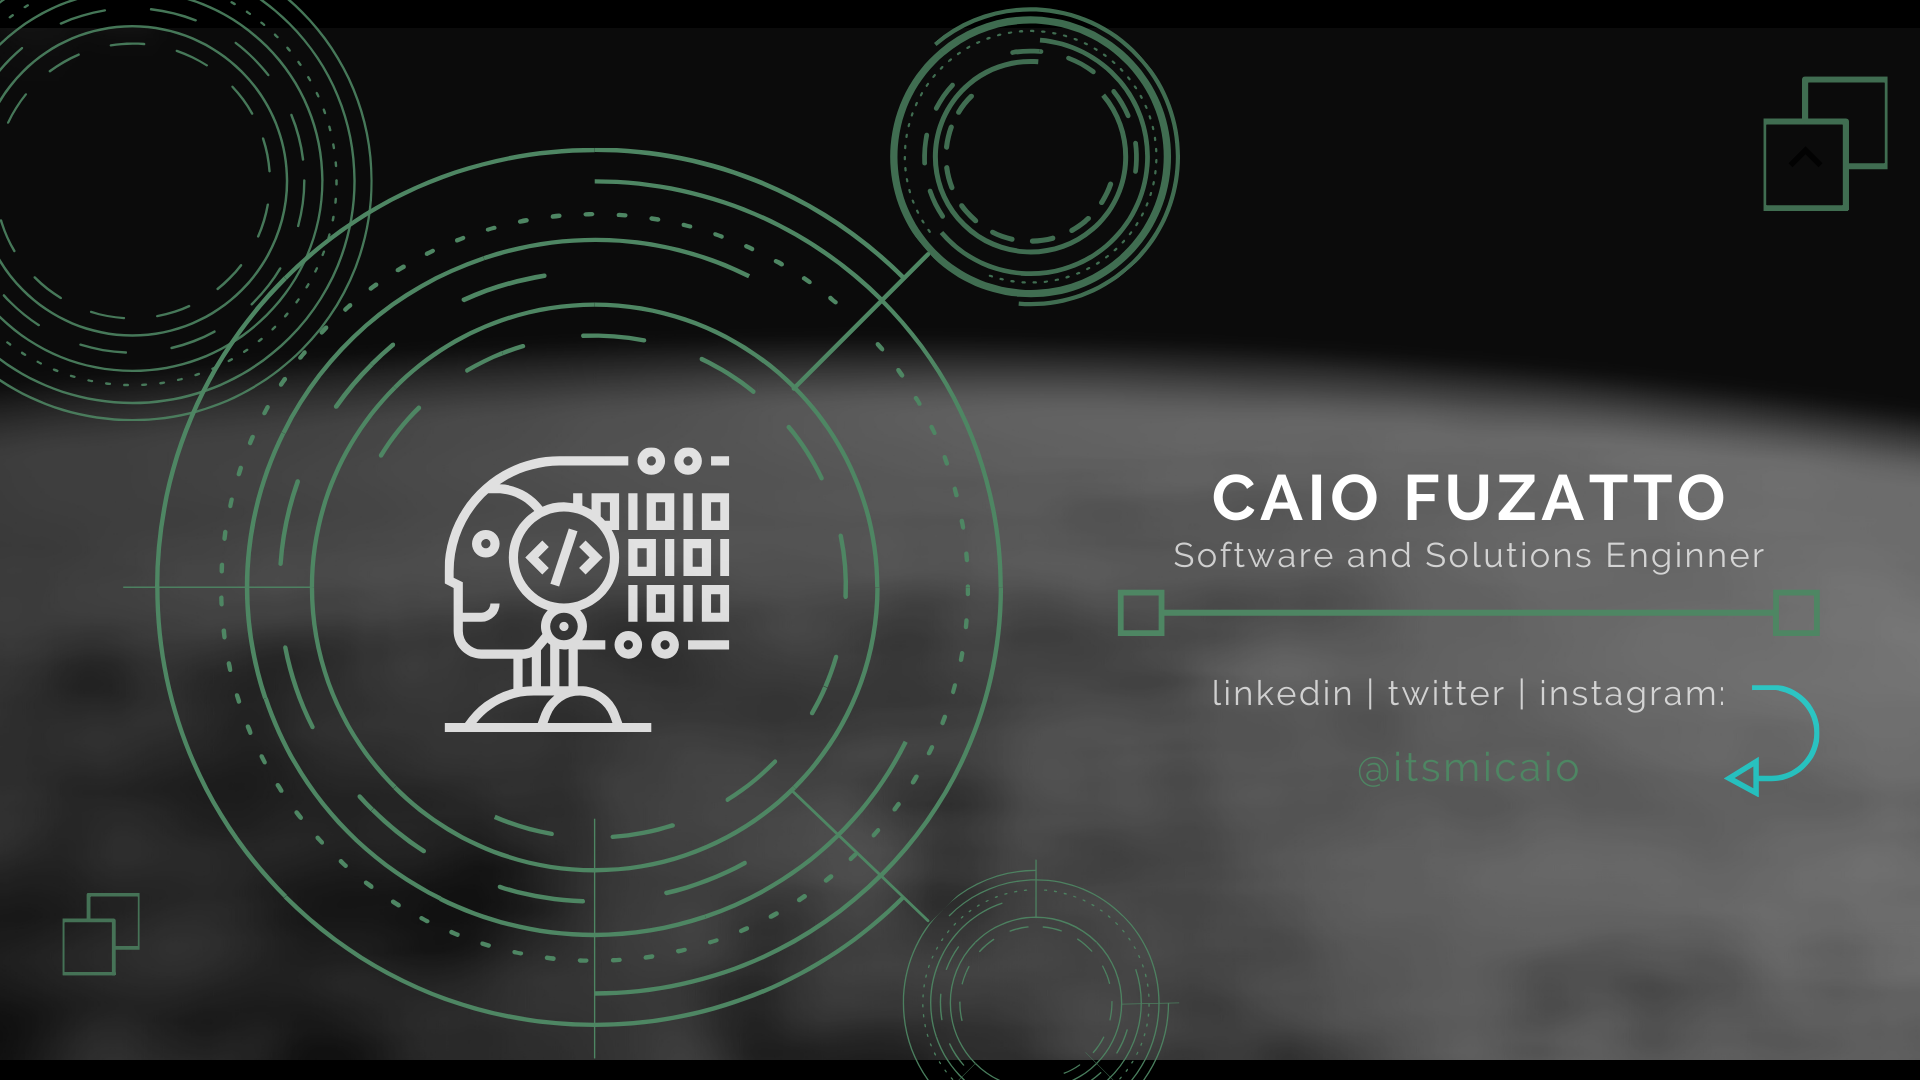
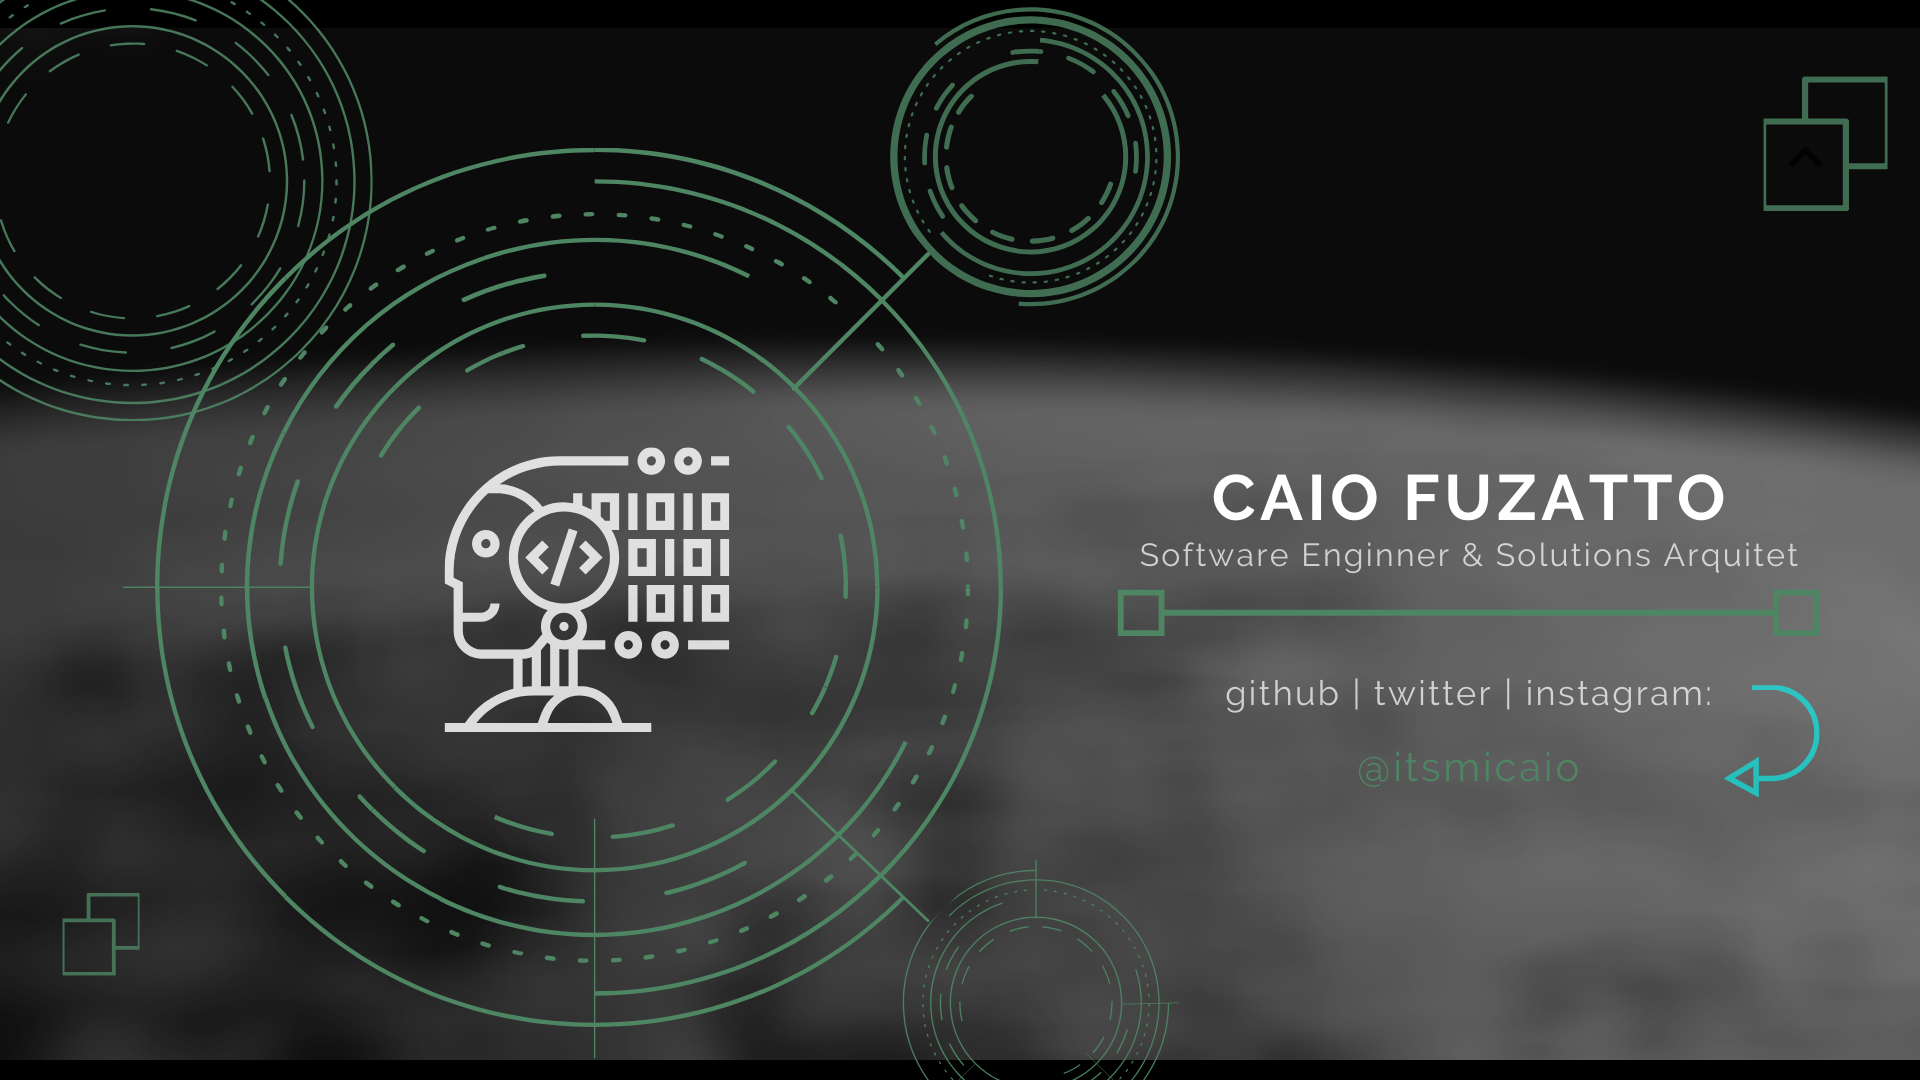
more fixies

Changed region(s): [[0.625, 0.6111, 0.875, 0.6722], [0.5938, 0.4889, 0.9375, 0.55]]

diff --git a/gatsby-config.js b/gatsby-config.js
@@ -6,9 +6,9 @@ const queries = require('./src/utils/algolia_queries')
 module.exports = {
   siteMetadata: {
     title: `Caio Fuzatto`,
-    description: `A blog about tecnologies`,
+    description: `Um blog sobre as tecnologias maravilhosas do mundo moderno e outras coisinhas`,
     author: `@itsmicaio`,
-    position: `Co-Founder and Software Enginner at VilaApps`,
+    position: `Software Enginner & Solutions Arquitet`,
     siteUrl: `https://itsmicaio.netlify.app/`
   },
   plugins: [
